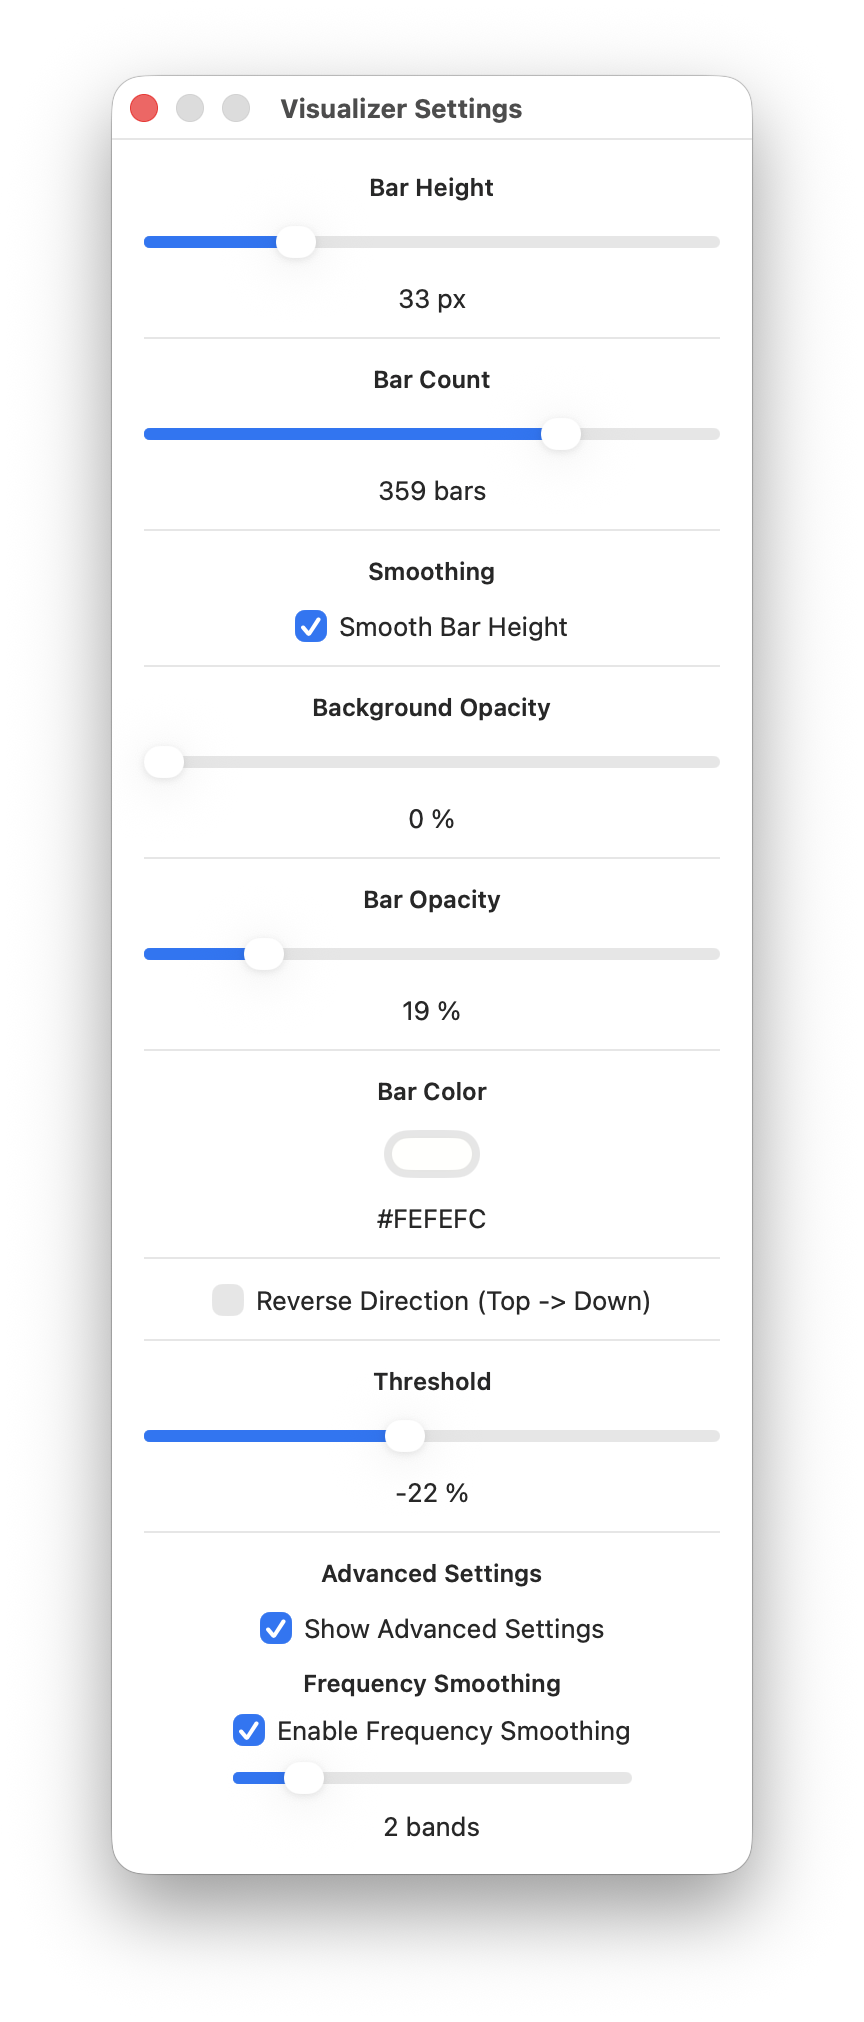
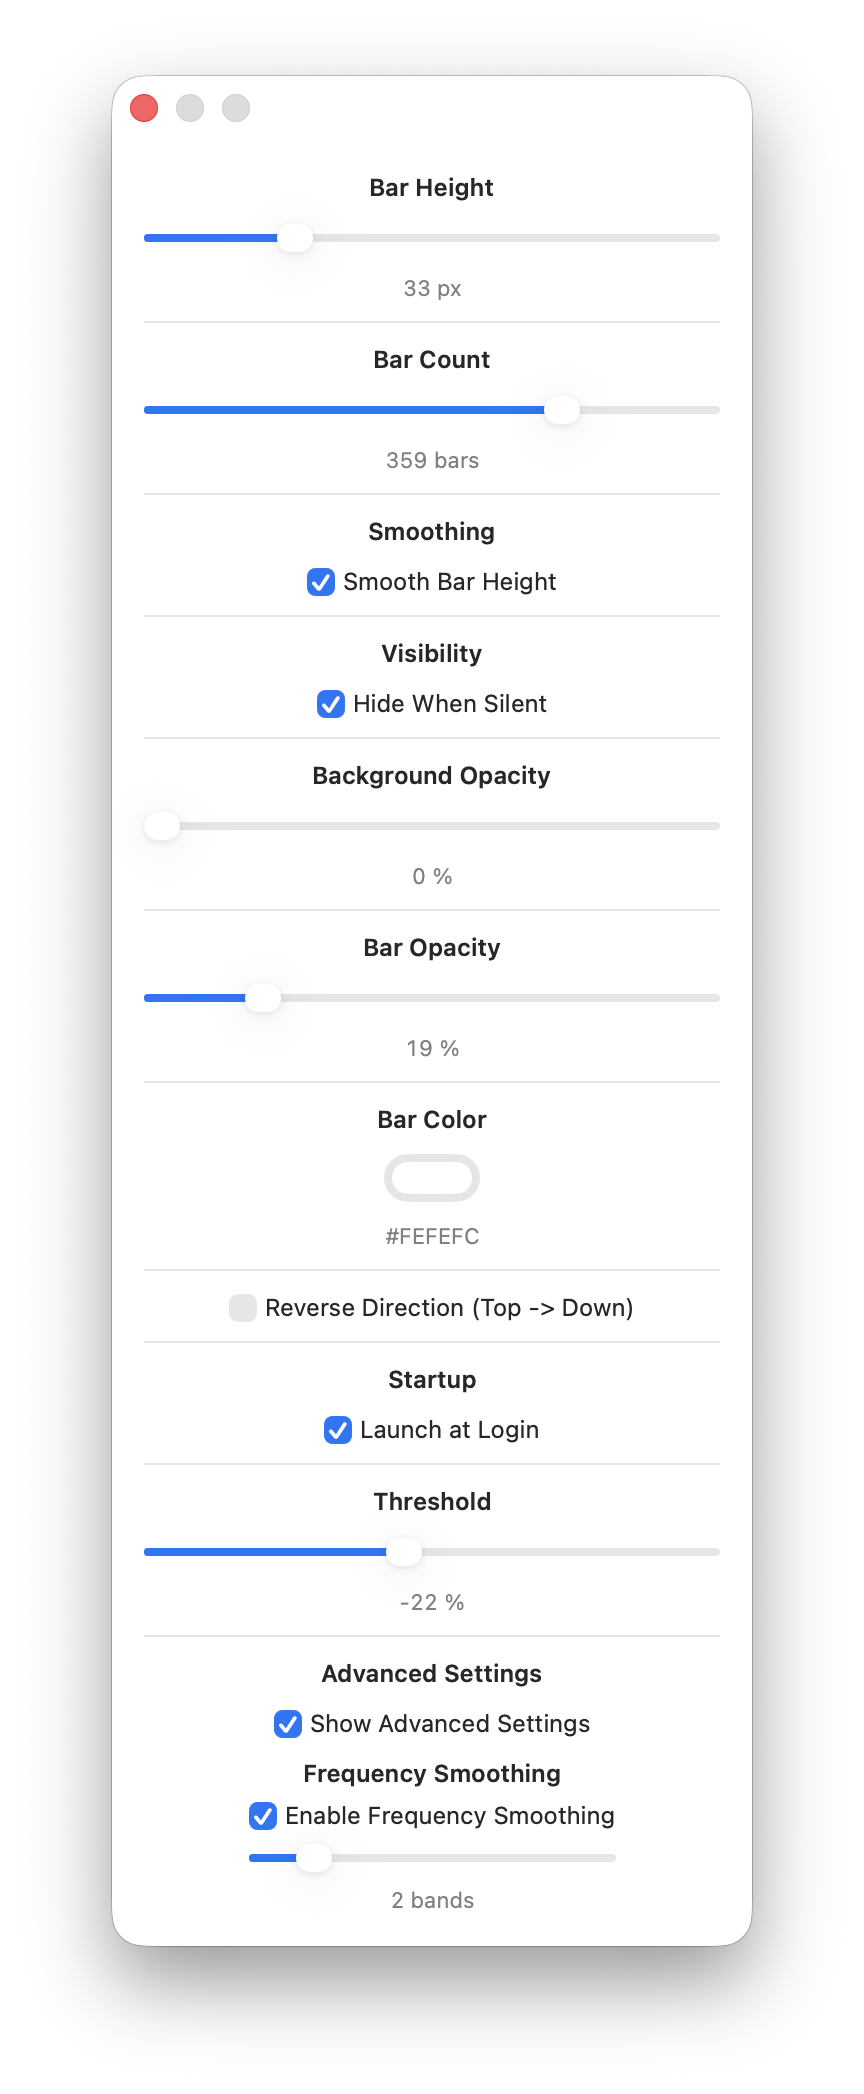
feat(app): add startup and silence options

diff --git a/Sources/MenuBarVisualizer/MenuBarVisualizer.swift b/Sources/MenuBarVisualizer/MenuBarVisualizer.swift
@@ -1,5 +1,6 @@
 import AppKit
 import ApplicationServices
+import ServiceManagement
 import ScreenCaptureKit
 import AVFoundation
 import Accelerate
@@ -171,6 +172,7 @@ final class SettingsStore {
         static let smoothBarHeight = "smoothBarHeight"
         static let smoothFrequencyEnabled = "smoothFrequencyEnabled"
         static let smoothFrequencyRadius = "smoothFrequencyRadius"
+        static let hideWhenSilent = "hideWhenSilent"
     }
 
     private let defaults = UserDefaults.standard
@@ -184,6 +186,7 @@ final class SettingsStore {
     private var _smoothBarHeight: Bool
     private var _smoothFrequencyEnabled: Bool
     private var _smoothFrequencyRadius: Int
+    private var _hideWhenSilent: Bool
 
     var onChange: (() -> Void)?
 
@@ -283,6 +286,33 @@ final class SettingsStore {
         }
     }
 
+    var hideWhenSilent: Bool {
+        get { _hideWhenSilent }
+        set {
+            guard newValue != _hideWhenSilent else { return }
+            _hideWhenSilent = newValue
+            defaults.set(newValue, forKey: Key.hideWhenSilent)
+            onChange?()
+        }
+    }
+
+    var launchAtLoginEnabled: Bool {
+        if #available(macOS 13.0, *) {
+            return SMAppService.mainApp.status == .enabled
+        }
+        return false
+    }
+
+    func setLaunchAtLoginEnabled(_ enabled: Bool) throws {
+        if #available(macOS 13.0, *) {
+            if enabled {
+                try SMAppService.mainApp.register()
+            } else {
+                try SMAppService.mainApp.unregister()
+            }
+        }
+    }
+
     var barColor: NSColor {
         get { _barColor }
         set {
@@ -324,6 +354,7 @@ final class SettingsStore {
         let savedSmoothBarHeight = defaults.object(forKey: Key.smoothBarHeight) as? Bool
         let savedSmoothFrequencyEnabled = defaults.object(forKey: Key.smoothFrequencyEnabled) as? Bool
         let savedSmoothFrequencyRadius = defaults.object(forKey: Key.smoothFrequencyRadius) as? Int
+        let savedHideWhenSilent = defaults.object(forKey: Key.hideWhenSilent) as? Bool
         let defaultHeight: CGFloat = 30
         let defaultAlpha: CGFloat = 0.0
         let defaultBarCount = 160
@@ -332,6 +363,7 @@ final class SettingsStore {
         let defaultSmoothBarHeight = true
         let defaultSmoothFrequencyEnabled = true
         let defaultSmoothFrequencyRadius = 2
+        let defaultHideWhenSilent = false
 
         let minValue = Self.minBarHeight
         let maxValue = Self.maxBarHeight
@@ -366,6 +398,7 @@ final class SettingsStore {
         _smoothBarHeight = savedSmoothBarHeight ?? defaultSmoothBarHeight
         _smoothFrequencyEnabled = savedSmoothFrequencyEnabled ?? defaultSmoothFrequencyEnabled
         _smoothFrequencyRadius = Self.clampFrequencyRadius(savedSmoothFrequencyRadius ?? defaultSmoothFrequencyRadius)
+        _hideWhenSilent = savedHideWhenSilent ?? defaultHideWhenSilent
     }
 
     private func clampBarHeight(_ value: CGFloat) -> CGFloat {
@@ -421,6 +454,10 @@ final class OverlayController: NSObject {
     private let settings: SettingsStore
     private var userVisible = true
     private var fullscreenHidden = false
+    private var silenceHidden = false
+    private var lastNonSilentTime = CFAbsoluteTimeGetCurrent()
+    private let silenceThreshold: Float = 0.02
+    private let silenceHold: CFTimeInterval = 1.2
 
     init(barCount: Int, settings: SettingsStore) {
         self.settings = settings
@@ -480,6 +517,7 @@ final class OverlayController: NSObject {
 
     func updateLevels(_ levels: [Float]) {
         visualizerView.updateLevels(levels)
+        evaluateSilence(with: levels)
     }
 
     func applySettings() {
@@ -504,8 +542,14 @@ final class OverlayController: NSObject {
         refreshVisibility()
     }
 
+    private func setSilenceHidden(_ hidden: Bool) {
+        guard hidden != silenceHidden else { return }
+        silenceHidden = hidden
+        refreshVisibility()
+    }
+
     private func refreshVisibility() {
-        if userVisible && !fullscreenHidden {
+        if userVisible && !fullscreenHidden && !silenceHidden {
             window.orderFrontRegardless()
         } else {
             window.orderOut(nil)
@@ -526,6 +570,24 @@ final class OverlayController: NSObject {
         let frame = OverlayController.frame(for: screen, barHeight: settings.barHeight)
         window.setFrame(frame, display: true)
         visualizerView.needsDisplay = true
+    }
+
+    private func evaluateSilence(with levels: [Float]) {
+        guard settings.hideWhenSilent else {
+            lastNonSilentTime = CFAbsoluteTimeGetCurrent()
+            setSilenceHidden(false)
+            return
+        }
+        let maxLevel = levels.max() ?? 0
+        let now = CFAbsoluteTimeGetCurrent()
+        if maxLevel > silenceThreshold {
+            lastNonSilentTime = now
+            setSilenceHidden(false)
+            return
+        }
+        if now - lastNonSilentTime >= silenceHold {
+            setSilenceHidden(true)
+        }
     }
 
     private func evaluateFullscreen() {
@@ -866,6 +928,8 @@ final class SettingsWindowController: NSWindowController {
     private let barColorValueLabel: NSTextField
     private let reverseDirectionButton: NSButton
     private let smoothBarHeightButton: NSButton
+    private let launchAtLoginButton: NSButton
+    private let hideWhenSilentButton: NSButton
     private let showAdvancedButton: NSButton
     private let smoothFrequencyButton: NSButton
     private let smoothFrequencySlider: NSSlider
@@ -906,6 +970,14 @@ final class SettingsWindowController: NSWindowController {
         smoothButton.state = settings.smoothBarHeight ? .on : .off
         self.smoothBarHeightButton = smoothButton
 
+        let launchButton = NSButton(checkboxWithTitle: "Launch at Login", target: nil, action: nil)
+        launchButton.state = settings.launchAtLoginEnabled ? .on : .off
+        self.launchAtLoginButton = launchButton
+
+        let hideWhenSilentButton = NSButton(checkboxWithTitle: "Hide When Silent", target: nil, action: nil)
+        hideWhenSilentButton.state = settings.hideWhenSilent ? .on : .off
+        self.hideWhenSilentButton = hideWhenSilentButton
+
         let showAdvancedButton = NSButton(checkboxWithTitle: "Show Advanced Settings", target: nil, action: nil)
         showAdvancedButton.state = .off
         self.showAdvancedButton = showAdvancedButton
@@ -927,7 +999,7 @@ final class SettingsWindowController: NSWindowController {
 
         let advancedStack = NSStackView()
         advancedStack.orientation = .vertical
-        advancedStack.spacing = 8
+        advancedStack.spacing = 6
         advancedStack.translatesAutoresizingMaskIntoConstraints = false
         self.advancedStack = advancedStack
 
@@ -947,9 +1019,12 @@ final class SettingsWindowController: NSWindowController {
                               defer: false)
         window.title = "Visualizer Settings"
         window.isReleasedWhenClosed = false
+        window.titleVisibility = .hidden
+        window.titlebarAppearsTransparent = true
+        window.isMovableByWindowBackground = true
         let stack = NSStackView()
         stack.orientation = .vertical
-        stack.spacing = 12
+        stack.spacing = 10
         stack.translatesAutoresizingMaskIntoConstraints = false
         stack.edgeInsets = NSEdgeInsets(top: 16, left: 16, bottom: 16, right: 16)
         self.mainStack = stack
@@ -968,6 +1043,10 @@ final class SettingsWindowController: NSWindowController {
         reverseButton.action = #selector(reverseDirectionChanged(_:))
         smoothButton.target = self
         smoothButton.action = #selector(smoothBarHeightChanged(_:))
+        launchButton.target = self
+        launchButton.action = #selector(launchAtLoginChanged(_:))
+        hideWhenSilentButton.target = self
+        hideWhenSilentButton.action = #selector(hideWhenSilentChanged(_:))
         showAdvancedButton.target = self
         showAdvancedButton.action = #selector(showAdvancedChanged(_:))
         smoothFrequencyButton.target = self
@@ -979,6 +1058,7 @@ final class SettingsWindowController: NSWindowController {
         thresholdSlider.target = self
         thresholdSlider.action = #selector(thresholdChanged(_:))
 
+        applyUIStyles()
         configureContent()
         refreshLabels()
         updateAdvancedVisibility()
@@ -990,6 +1070,8 @@ final class SettingsWindowController: NSWindowController {
 
     func show() {
         guard let window else { return }
+        launchAtLoginButton.state = settings.launchAtLoginEnabled ? .on : .off
+        hideWhenSilentButton.state = settings.hideWhenSilent ? .on : .off
         window.center()
         window.makeKeyAndOrderFront(nil)
         NSApp.activate(ignoringOtherApps: true)
@@ -1009,6 +1091,9 @@ final class SettingsWindowController: NSWindowController {
         mainStack.addArrangedSubview(sectionLabel("Smoothing"))
         mainStack.addArrangedSubview(smoothBarHeightButton)
         mainStack.addArrangedSubview(sectionSeparator())
+        mainStack.addArrangedSubview(sectionLabel("Visibility"))
+        mainStack.addArrangedSubview(hideWhenSilentButton)
+        mainStack.addArrangedSubview(sectionSeparator())
         mainStack.addArrangedSubview(sectionLabel("Background Opacity"))
         mainStack.addArrangedSubview(opacitySlider)
         mainStack.addArrangedSubview(opacityValueLabel)
@@ -1022,6 +1107,9 @@ final class SettingsWindowController: NSWindowController {
         mainStack.addArrangedSubview(barColorValueLabel)
         mainStack.addArrangedSubview(sectionSeparator())
         mainStack.addArrangedSubview(reverseDirectionButton)
+        mainStack.addArrangedSubview(sectionSeparator())
+        mainStack.addArrangedSubview(sectionLabel("Startup"))
+        mainStack.addArrangedSubview(launchAtLoginButton)
         mainStack.addArrangedSubview(sectionSeparator())
         mainStack.addArrangedSubview(sectionLabel("Threshold"))
         mainStack.addArrangedSubview(thresholdSlider)
@@ -1043,6 +1131,51 @@ final class SettingsWindowController: NSWindowController {
             mainStack.topAnchor.constraint(equalTo: contentView.topAnchor),
             mainStack.bottomAnchor.constraint(lessThanOrEqualTo: contentView.bottomAnchor)
         ])
+    }
+
+    private func applyUIStyles() {
+        let valueFont = NSFont.monospacedDigitSystemFont(ofSize: 11, weight: .regular)
+        let valueLabels = [
+            heightValueLabel,
+            opacityValueLabel,
+            barCountValueLabel,
+            barOpacityValueLabel,
+            barColorValueLabel,
+            thresholdValueLabel,
+            smoothFrequencyValueLabel
+        ]
+        for label in valueLabels {
+            label.font = valueFont
+            label.textColor = .secondaryLabelColor
+            label.alignment = .right
+        }
+
+        let sliders = [
+            heightSlider,
+            opacitySlider,
+            barOpacitySlider,
+            barCountSlider,
+            thresholdSlider,
+            smoothFrequencySlider
+        ]
+        for slider in sliders {
+            slider.controlSize = .small
+            slider.cell?.controlSize = .small
+        }
+
+        let buttons = [
+            reverseDirectionButton,
+            smoothBarHeightButton,
+            launchAtLoginButton,
+            hideWhenSilentButton,
+            showAdvancedButton,
+            smoothFrequencyButton
+        ]
+        for button in buttons {
+            button.controlSize = .small
+            button.cell?.controlSize = .small
+            button.font = NSFont.systemFont(ofSize: 12)
+        }
     }
 
     private func sectionLabel(_ text: String) -> NSTextField {
@@ -1098,6 +1231,26 @@ final class SettingsWindowController: NSWindowController {
 
     @objc private func smoothBarHeightChanged(_ sender: NSButton) {
         settings.smoothBarHeight = (sender.state == .on)
+    }
+
+    @objc private func hideWhenSilentChanged(_ sender: NSButton) {
+        settings.hideWhenSilent = (sender.state == .on)
+    }
+
+    @objc private func launchAtLoginChanged(_ sender: NSButton) {
+        let enabled = sender.state == .on
+        do {
+            try settings.setLaunchAtLoginEnabled(enabled)
+        } catch {
+            sender.state = settings.launchAtLoginEnabled ? .on : .off
+            NSApp.activate(ignoringOtherApps: true)
+            let alert = NSAlert()
+            alert.messageText = "Failed to update Login Item"
+            alert.informativeText = error.localizedDescription
+            alert.alertStyle = .warning
+            alert.addButton(withTitle: "OK")
+            alert.runModal()
+        }
     }
 
     @objc private func showAdvancedChanged(_ sender: NSButton) {
